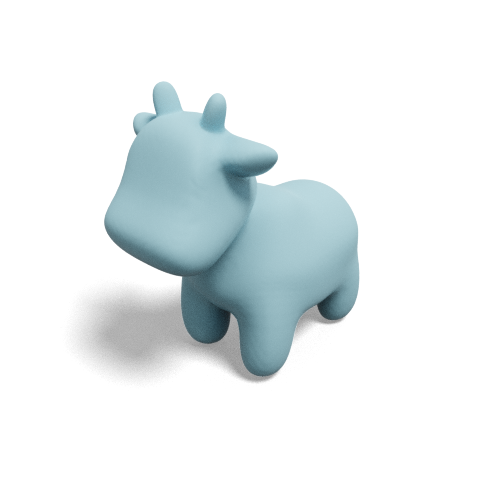
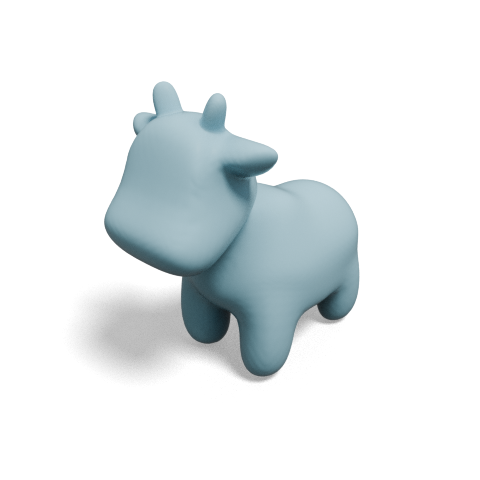
commiting setMat balloon and demo balloon

Changed region(s): [[0.375, 0.5625, 0.5, 0.7188], [0.4688, 0.3438, 0.625, 0.4062], [0.6875, 0.5938, 0.7188, 0.625]]

diff --git a/BlenderToolBox/setMat_balloon.py b/BlenderToolBox/setMat_balloon.py
@@ -23,17 +23,17 @@ def setMat_balloon(mesh, meshColor, AOStrength = 0.0):
 	tree = mat.node_tree
 
 	# set principled BSDF
-	tree.nodes["Principled BSDF"].inputs['Specular'].default_value = 0.5
+	tree.nodes["Principled BSDF"].inputs['Specular IOR Level'].default_value = 0.5
 	tree.nodes["Principled BSDF"].inputs['Roughness'].default_value = 0.3
-	tree.nodes["Principled BSDF"].inputs['Sheen Tint'].default_value = 0.5
-	tree.nodes["Principled BSDF"].inputs['Clearcoat Roughness'].default_value = 0.3
-	tree.nodes["Principled BSDF"].inputs['Clearcoat'].default_value = 1
+	tree.nodes["Principled BSDF"].inputs['Sheen Tint'].default_value = [0.5, 0.5, 0.5, 1] # expects a sequence now
+	tree.nodes["Principled BSDF"].inputs['Coat Roughness'].default_value = 0.3
+	tree.nodes["Principled BSDF"].inputs['Coat Weight'].default_value = 1
 
 	# add Ambient Occlusion
 	tree.nodes.new('ShaderNodeAmbientOcclusion')
 	tree.nodes.new('ShaderNodeGamma')
 	tree.nodes.new('ShaderNodeMixRGB')
-	tree.nodes["Mix"].blend_type = 'MULTIPLY'
+	tree.nodes["Mix (Legacy)"].blend_type = 'MULTIPLY'
 	tree.nodes["Gamma"].inputs["Gamma"].default_value = AOStrength
 	tree.nodes["Ambient Occlusion"].inputs["Distance"].default_value = 10.0
 	tree.nodes["Gamma"].location.x -= 600
@@ -55,10 +55,10 @@ def setMat_balloon(mesh, meshColor, AOStrength = 0.0):
 	# link all the nodes
 	tree.links.new(HSVNode.outputs['Color'], BCNode.inputs['Color'])
 	tree.links.new(BCNode.outputs['Color'], tree.nodes['Ambient Occlusion'].inputs['Color'])
-	tree.links.new(tree.nodes["Ambient Occlusion"].outputs['Color'], tree.nodes['Mix'].inputs['Color1'])
+	tree.links.new(tree.nodes["Ambient Occlusion"].outputs['Color'], tree.nodes['Mix (Legacy)'].inputs['Color1'])
 	tree.links.new(tree.nodes["Ambient Occlusion"].outputs['AO'], tree.nodes['Gamma'].inputs['Color'])
-	tree.links.new(tree.nodes["Gamma"].outputs['Color'], tree.nodes['Mix'].inputs['Color2'])
-	tree.links.new(tree.nodes["Mix"].outputs['Color'], tree.nodes['Principled BSDF'].inputs['Base Color'])
+	tree.links.new(tree.nodes["Gamma"].outputs['Color'], tree.nodes['Mix (Legacy)'].inputs['Color2'])
+	tree.links.new(tree.nodes["Mix (Legacy)"].outputs['Color'], tree.nodes['Principled BSDF'].inputs['Base Color'])
 
 	# add transparent
 	TRAN = tree.nodes.new('ShaderNodeBsdfTransparent')
@@ -78,8 +78,8 @@ def setMat_balloon(mesh, meshColor, AOStrength = 0.0):
 	tree.links.new(DIF.outputs[0], MIX2.inputs[1])
 	tree.links.new(LAY.outputs[1], MIX.inputs[0])
 	tree.links.new(MIX2.outputs[0], MIX.inputs[1])
-	tree.links.new(tree.nodes["Mix"].outputs['Color'], TRAN.inputs[0])
-	tree.links.new(tree.nodes["Mix"].outputs['Color'], DIF.inputs[0])
+	tree.links.new(tree.nodes["Mix (Legacy)"].outputs['Color'], TRAN.inputs[0])
+	tree.links.new(tree.nodes["Mix (Legacy)"].outputs['Color'], DIF.inputs[0])
 	tree.links.new(MIX.outputs[0], tree.nodes['Material Output'].inputs['Surface'])
 
 	

diff --git a/BlenderToolBox/readPLY.py b/BlenderToolBox/readPLY.py
@@ -27,7 +27,7 @@ def readPLY(filePath, location, rotation_euler, scale):
 	prev = []
 	for ii in range(len(list(bpy.data.objects))):
 		prev.append(bpy.data.objects[ii].name)
-	bpy.ops.import_mesh.ply(filepath=filePath)
+	bpy.ops.wm.ply_import(filepath=filePath)
 	after = []
 	for ii in range(len(list(bpy.data.objects))):
 		after.append(bpy.data.objects[ii].name)

diff --git a/BlenderToolBox/invisibleGround.py b/BlenderToolBox/invisibleGround.py
@@ -28,4 +28,4 @@ def invisibleGround(location = (0,0,0), groundSize = 100, shadowBrightness = 0.7
 	ground.data.materials.append(mat)
 	mat.use_nodes = True
 	tree = mat.node_tree
-	tree.nodes["Principled BSDF"].inputs['Transmission'].default_value = shadowBrightness
+	tree.nodes["Principled BSDF"].inputs['Transmission Weight'].default_value = shadowBrightness

diff --git a/demos/demo_balloon.py b/demos/demo_balloon.py
@@ -1,5 +1,5 @@
 import sys
-sys.path.append('/Users/hsuehtil/Dropbox/BlenderToolbox/') # change this to your path to “path/to/BlenderToolbox/
+sys.path.append('..') # change this to your path to “path/to/BlenderToolbox/
 import BlenderToolBox as bt
 import os, bpy, bmesh
 import numpy as np
